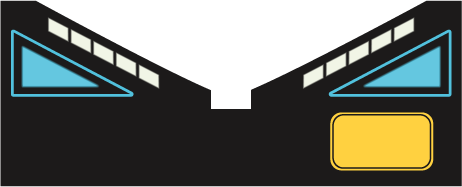
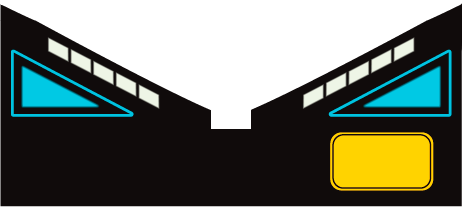
fixed savers, need to add texture

diff --git a/Ball.cpp b/Ball.cpp
@@ -169,8 +169,8 @@ bool Ball::PostUpdate()
 	SDL_Rect rectTop = { 0, 0, 115, 335 };
 	app->renderer->Blit(app->scene_intro->top, 434, 122, &rectTop);
 
-	SDL_Rect rectLower = { 0, 0, 462, 187 };
-	app->renderer->Blit(app->scene_intro->lower, 24, 750, &rectLower);
+	SDL_Rect rectLower = { 0, 0, 462, 207 };
+	app->renderer->Blit(app->scene_intro->lower, 24, 730, &rectLower);
 
 	//Time bar
 	SDL_Rect bar = { 71, 865, app->scene_intro->time * 0.066666f, 60 };

diff --git a/ModuleScene.cpp b/ModuleScene.cpp
@@ -303,7 +303,7 @@ void ModuleScene::CreateColliders()
 		276, 930,
 		276, 842,
 		450, 753,
-		486, 753,
+		486, 738,
 		486, 483,
 		469, 462,
 		480, 437,
@@ -355,7 +355,7 @@ void ModuleScene::CreateColliders()
 		56, 499,
 		40, 524,
 		24, 553,
-		24, 753,
+		24, 738,
 		62, 753,
 		232, 840,
 		232, 930
